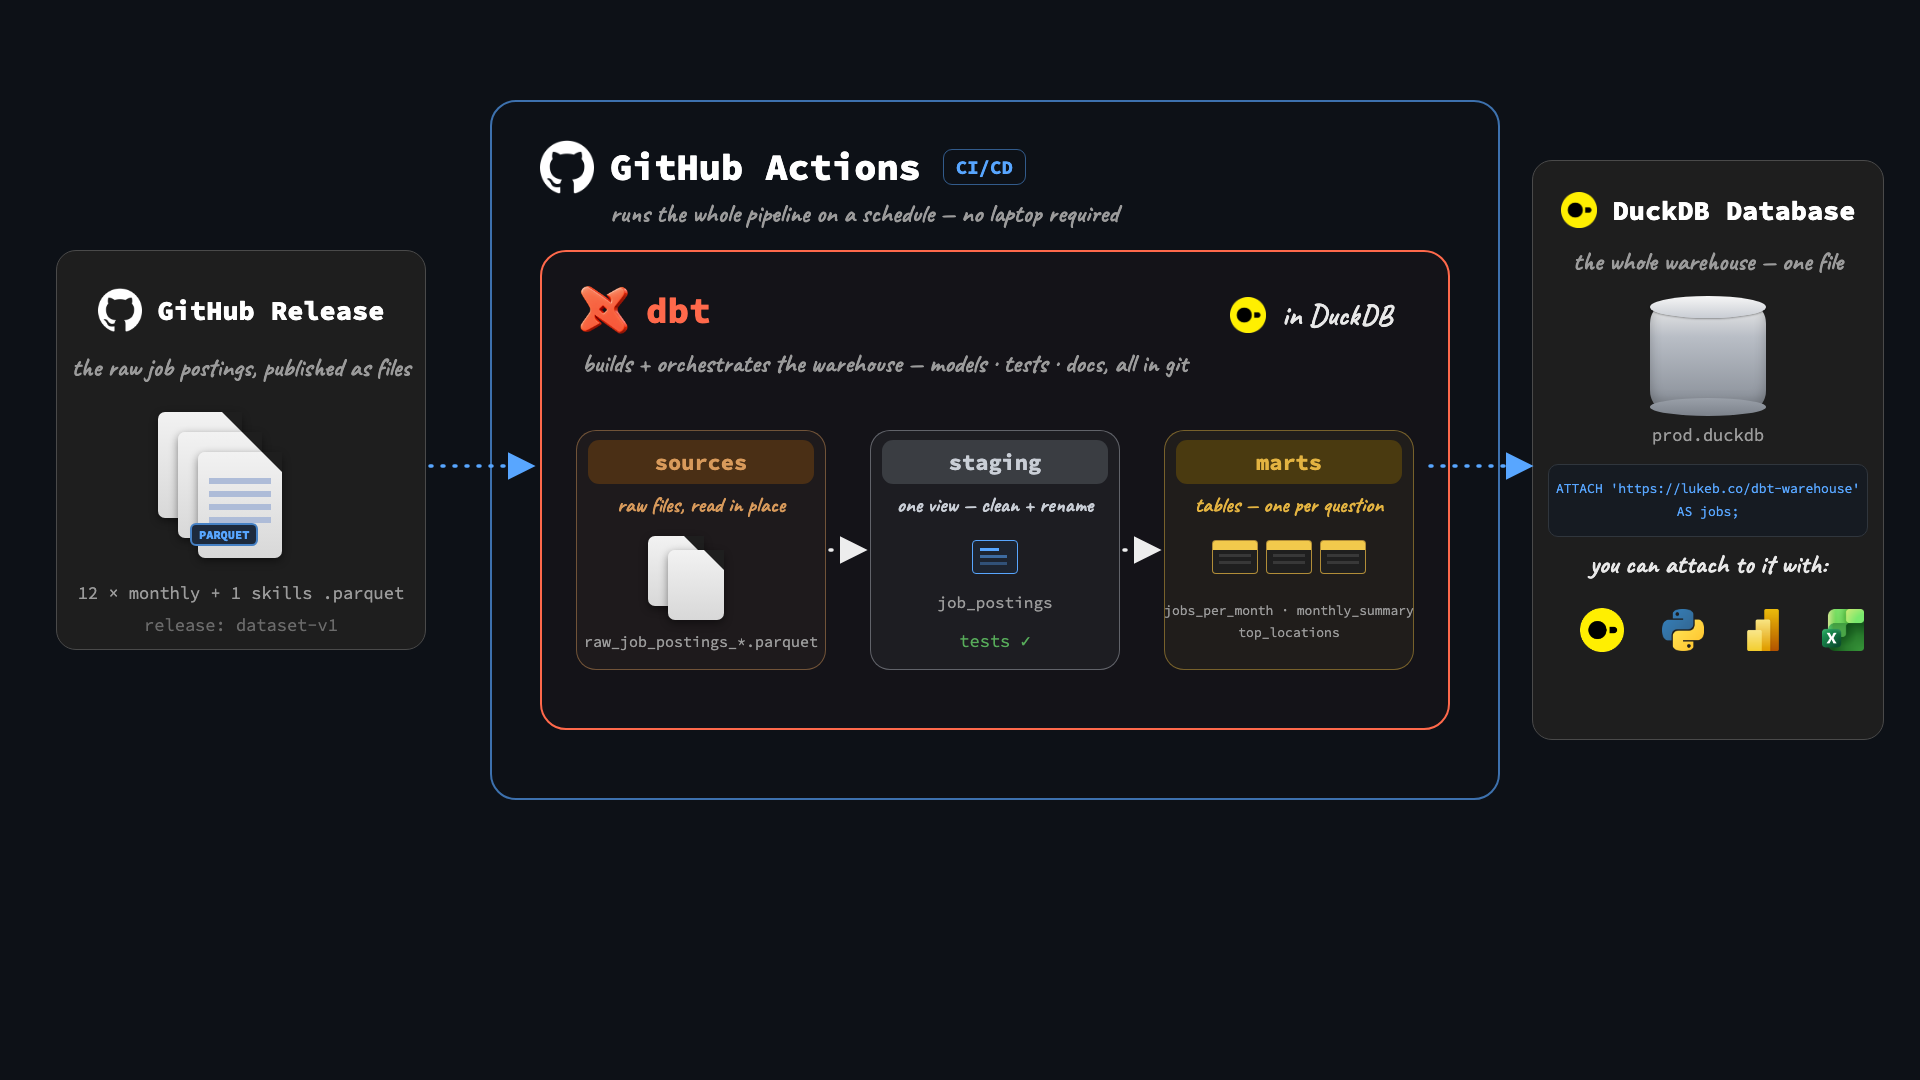
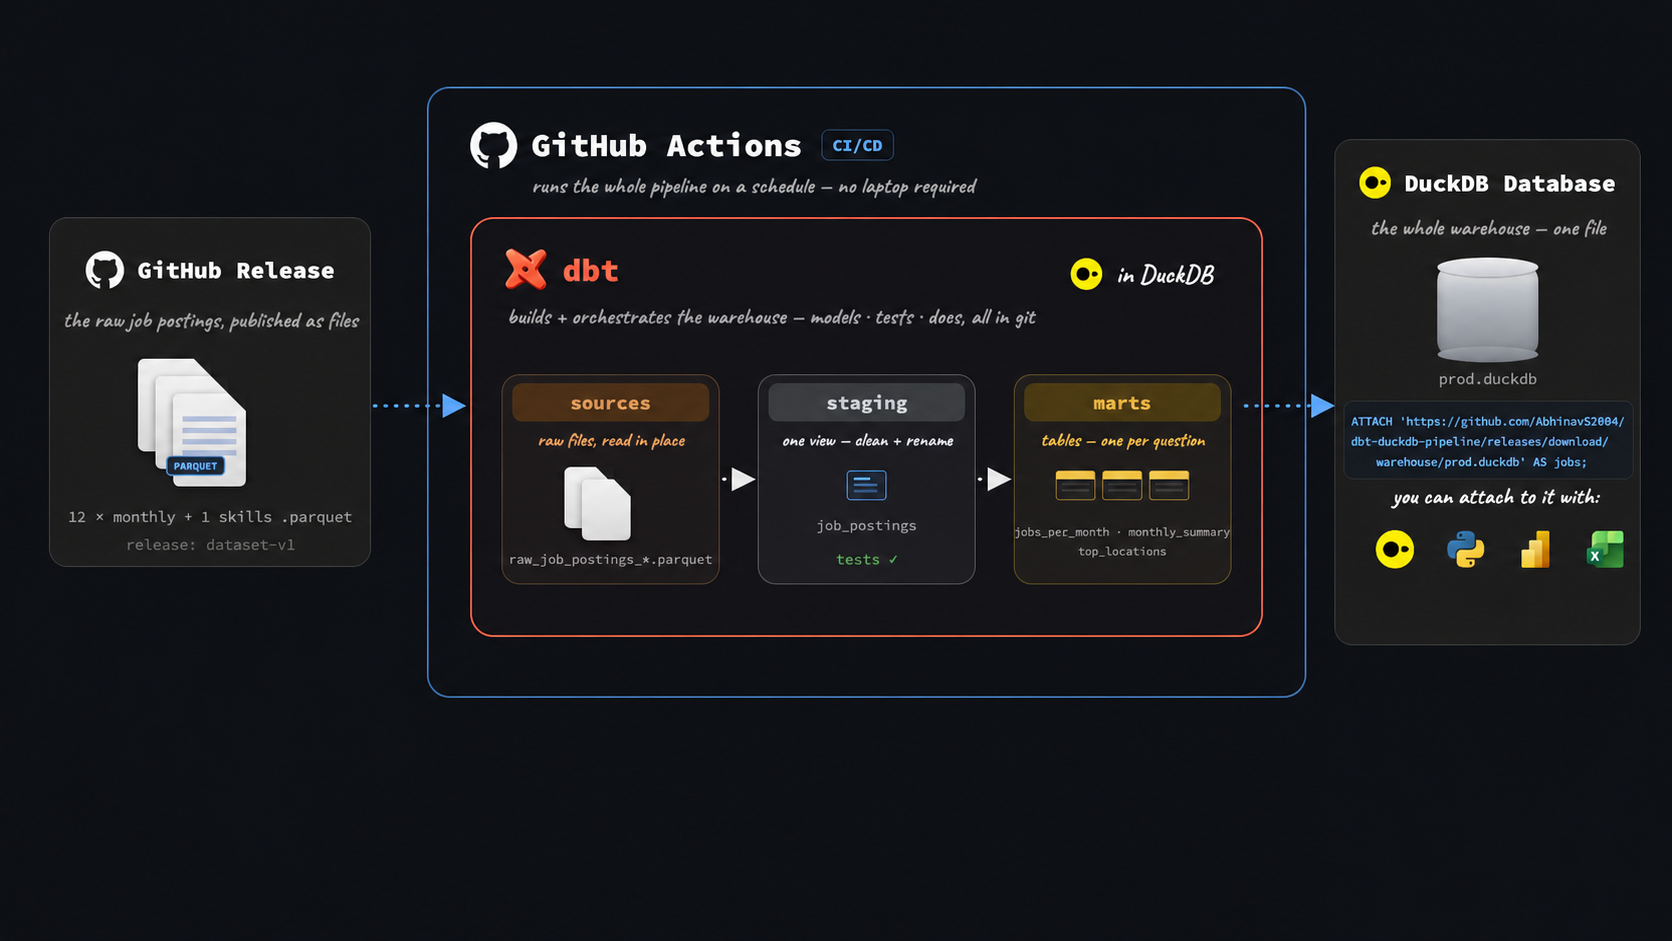
Updated docs links ans images

diff --git a/README.md b/README.md
@@ -15,8 +15,8 @@ A public dbt + DuckDB pipeline over ~692k real job postings, rebuilt and republi
 | --- | --- | --- |
 | **dbt pipeline** | sources → cleaned model → insight marts | [`analytics/models/`](analytics/models/) |
 | **Data tests** | `unique` / `not_null` on every mart grain | [`schema.yml`](analytics/models/schema.yml) |
-| **Hosted dbt docs** | lineage, descriptions, column tests | [Live docs site] |
-| **Public CI** | build + test + publish on every push | [Actions workflow](https://github.com/AbhinavS2004/dbt-duckdb-pipeline/actions/workflows/dbt_build.yml) |
+| **Hosted dbt docs** | lineage, descriptions, column tests | [Live docs site](https://abhinavs2004.github.io/dbt-duckdb-pipeline/) |
+| **Public CI** | build + test + publish on every push | [Actions workflow](https://github.com/AbhinavS2004/dbt-duckdb-pipeline/actions) |
 | **Environments** | local `dev` vs CI `prod` targets | [`ci/profiles.yml`](ci/profiles.yml) |
 | **Published warehouse** | one `ATTACH`, queryable by anyone | [Query it](#query-the-published-warehouse) |
 
@@ -83,7 +83,7 @@ SELECT * FROM monthly_summary;
 
 Docs are generated with `dbt docs generate` and published to GitHub Pages:
 
-**→ [lukebarousse.github.io/dbt_Analytics_Engineering_Course/project1/](https://lukebarousse.github.io/dbt_Analytics_Engineering_Course/project1/)**
+**→ [abhinavs2004.github.io/dbt-duckdb-pipeline/](https://abhinavs2004.github.io/dbt-duckdb-pipeline/)**
 
 The site shows:
 
